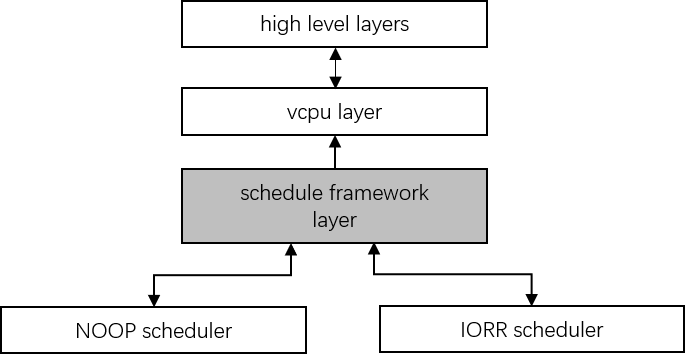
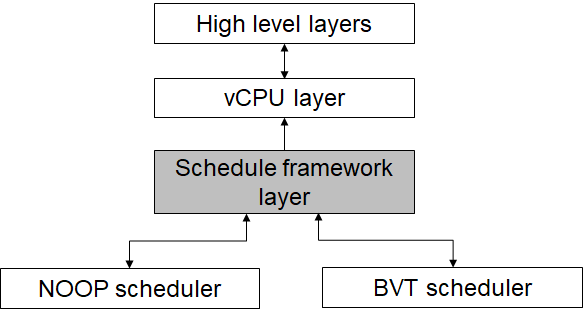
doc: update cpu-sharing doc
change IORR to BVT, update affinity related info.

Changed region(s): [[0.0, 0.2563, 1.0, 0.9968], [0.247, 0.0, 0.7101, 0.2563], [0.3705, 0.2848, 0.5866, 0.3418]]

diff --git a/doc/tutorials/cpu_sharing.rst b/doc/tutorials/cpu_sharing.rst
@@ -6,17 +6,33 @@ ACRN CPU Sharing
 Introduction
 ************
 
-The goal of CPU Sharing is to fully utilize the physical CPU resource to support more virtual machines. Currently, ACRN only supports 1 to 1 mapping mode between virtual CPUs (vCPUs) and physical CPUs (pCPUs). Because of the lack of CPU sharing ability, the number of VMs is limited. To support CPU Sharing, we have introduced a scheduling framework and implemented two simple small scheduling algorithms to satisfy embedded device requirements. Note that, CPU Sharing is not available for VMs with local APIC passthrough (``--lapic_pt`` option).
+The goal of CPU Sharing is to fully utilize the physical CPU resource to
+support more virtual machines. Currently, ACRN only supports 1 to 1
+mapping mode between virtual CPUs (vCPUs) and physical CPUs (pCPUs).
+Because of the lack of CPU sharing ability, the number of VMs is
+limited. To support CPU Sharing, we have introduced a scheduling
+framework and implemented two simple small scheduling algorithms to
+satisfy embedded device requirements. Note that, CPU Sharing is not
+available for VMs with local APIC passthrough (``--lapic_pt`` option).
 
 Scheduling Framework
 ********************
 
-To satisfy the modularization design concept, the scheduling framework layer isolates the vCPU layer and scheduler algorithm. It does not have a vCPU concept so it is only aware of the thread object instance. The thread object state machine is maintained in the framework. The framework abstracts the scheduler algorithm object, so this architecture can easily extend to new scheduler algorithms.
+To satisfy the modularization design concept, the scheduling framework
+layer isolates the vCPU layer and scheduler algorithm. It does not have
+a vCPU concept so it is only aware of the thread object instance. The
+thread object state machine is maintained in the framework. The
+framework abstracts the scheduler algorithm object, so this architecture
+can easily extend to new scheduler algorithms.
 
 .. figure:: images/cpu_sharing_framework.png
    :align: center
 
-The below diagram shows that the vCPU layer invokes APIs provided by scheduling framework for vCPU scheduling. The scheduling framework also provides some APIs for schedulers. The scheduler mainly implements some callbacks in an ``acrn_scheduler`` instance for scheduling framework. Scheduling initialization is invoked in the hardware management layer.
+The below diagram shows that the vCPU layer invokes APIs provided by
+scheduling framework for vCPU scheduling. The scheduling framework also
+provides some APIs for schedulers. The scheduler mainly implements some
+callbacks in an ``acrn_scheduler`` instance for scheduling framework.
+Scheduling initialization is invoked in the hardware management layer.
 
 .. figure:: images/cpu_sharing_api.png
    :align: center
@@ -24,7 +40,9 @@ The below diagram shows that the vCPU layer invokes APIs provided by scheduling 
 vCPU affinity
 *************
 
-Currently, we do not support vCPU migration; the assignment of vCPU mapping to pCPU is statically configured in the VM configuration via a vcpu_affinity array. The item number of the array matches the vCPU number of this VM. Each item has one bit to indicate the assigned pCPU of the corresponding vCPU. Use these rules to configure the vCPU affinity:
+Currently, we do not support vCPU migration; the assignment of vCPU
+mapping to pCPU is statically configured by acrn-dm through
+``--cpu_affinity``. Use these rules to configure the vCPU affinity:
 
 - Only one bit can be set for each affinity item of vCPU.
 - vCPUs in the same VM cannot be assigned to the same pCPU.
@@ -46,26 +64,59 @@ The thread object contains three states: RUNNING, RUNNABLE, and BLOCKED.
 .. figure:: images/cpu_sharing_state.png
    :align: center
 
-After a new vCPU is created, the corresponding thread object is initiated. The vCPU layer invokes a wakeup operation. After wakeup, the state for the new thread object is set to RUNNABLE, and then follows its algorithm to determine whether or not to preempt the current running thread object. If yes, it turns to the RUNNING state. In RUNNING state, the thread object may turn back to the RUNNABLE state when it runs out of its timeslice, or it might yield the pCPU by itself, or be preempted. The thread object under RUNNING state may trigger sleep to transfer to BLOCKED state.
+After a new vCPU is created, the corresponding thread object is
+initiated. The vCPU layer invokes a wakeup operation. After wakeup, the
+state for the new thread object is set to RUNNABLE, and then follows its
+algorithm to determine whether or not to preempt the current running
+thread object. If yes, it turns to the RUNNING state. In RUNNING state,
+the thread object may turn back to the RUNNABLE state when it runs out
+of its timeslice, or it might yield the pCPU by itself, or be preempted.
+The thread object under RUNNING state may trigger sleep to transfer to
+BLOCKED state.
 
 Scheduler
 *********
 
-The below block diagram shows the basic concept for the scheduler. There are two kinds of scheduler in the diagram: NOOP (No-Operation) scheduler and IORR (IO sensitive Round-Robin) scheduler.
+The below block diagram shows the basic concept for the scheduler. There
+are two kinds of schedulers in the diagram: NOOP (No-Operation) scheduler
+and BVT (Borrowed Virtual Time) scheduler.
 
 
 - **No-Operation scheduler**:
 
-  The NOOP (No-operation) scheduler has the same policy as the original 1-1 mapping previously used; every pCPU can run only two thread objects: one is the idle thread, and another is the thread of the assigned vCPU. With this scheduler, vCPU works in Work-Conserving mode, which always try to keep resource busy, and will run once it is ready. Idle thread can run when the vCPU thread is blocked.
+  The NOOP (No-operation) scheduler has the same policy as the original
+  1-1 mapping previously used; every pCPU can run only two thread objects:
+  one is the idle thread, and another is the thread of the assigned vCPU.
+  With this scheduler, vCPU works in Work-Conserving mode, which always
+  try to keep resource busy, and will run once it is ready. Idle thread
+  can run when the vCPU thread is blocked.
 
-- **IO sensitive round-robin scheduler**:
+- **Borrowed Virtual Time scheduler**:
 
-  The IORR (IO sensitive round-robin) scheduler is implemented with the per-pCPU runqueue and the per-pCPU tick timer; it supports more than one vCPU running on a pCPU. It basically schedules thread objects in a round-robin policy and supports preemption by timeslice counting.
+  BVT (Borrowed Virtual time) is a virtual time based scheduling
+  algorithm, it dispatching the runnable thread with the earliest
+  effective virtual time.
 
-  - Every thread object has an initial timeslice (ex: 10ms)
-  - The timeslice is consumed with time and be counted in the context switch and tick handler
-  - If the timeslice is positive or zero, then switch out the current thread object and put it to tail of runqueue. Then, pick the next runnable one from runqueue to run.
-  - Threads with an IO request will preempt current running threads on the same pCPU.
+  TODO: BVT scheduler will be built on top of prioritized scheduling
+  mechanism, i.e. higher priority threads get scheduled first, and same
+  priority tasks are scheduled per BVT.
+
+  - **Virtual time**: The thread with the earliest effective virtual
+    time (EVT) is dispatched first.
+  - **Warp**: a latency-sensitive thread is allowed to warp back in
+    virtual time to make it appear earlier. It borrows virtual time from
+    its future CPU allocation and thus does not disrupt long-term CPU
+    sharing
+  - **MCU**: minimum charging unit, the scheduler account for running time
+    in units of MCU.
+  - **Weighted fair sharing**: each runnable thread receives a share of
+    the processor in proportion to its weight over a scheduling
+    window of some number of MCU.
+  - **C**: context switch allowance.  Real time by which the current
+    thread is allowed to advance beyond another runnable thread with
+    equal claim on the CPU. C is similar to the quantum in conventional
+    timesharing.
+
 
 Scheduler configuration
 ***********************
@@ -75,169 +126,58 @@ Two places in the code decide the usage for the scheduler.
 * The option in Kconfig decides the only scheduler used in runtime.
   ``hypervisor/arch/x86/Kconfig``
 
-  .. literalinclude:: ../../../../hypervisor/arch/x86/Kconfig
-     :name: Kconfig for Scheduler
-     :caption: Kconfig for Scheduler
-     :linenos:
-     :lines: 40-58
-     :emphasize-lines: 3
-     :language: c
+.. code-block:: none
 
-The default scheduler is **SCHED_NOOP**. To use the IORR, change it to **SCHED_IORR** in the **ACRN Scheduler**.
+  config SCHED_BVT
+          bool "BVT scheduler"
+          help
+          BVT (Borrowed Virtual time) is virtual time based scheduling algorithm. It
+          dispatches the runnable thread with the earliest effective virtual time.
+          TODO: BVT scheduler will be built on top of prioritized scheduling mechanism,
+          i.e. higher priority threads get scheduled first, and same priority tasks are
+          scheduled per BVT.
 
-* The affinity for VMs are set in  ``hypervisor/scenarios/<scenario_name>/vm_configurations.h``
+The default scheduler is **SCHED_NOOP**. To use the BVT, change it to
+**SCHED_BVT** in the **ACRN Scheduler**.
 
-  .. literalinclude:: ../../../..//hypervisor/scenarios/industry/vm_configurations.h
-     :name: Affinity for VMs
-     :caption: Affinity for VMs
-     :linenos:
-     :lines: 31-32
-     :language: c
+* The cpu_affinity is configured by acrn-dm command.
 
-* vCPU number corresponding to affinity is set in ``hypervisor/scenarios/<scenario_name>/vm_configurations.c`` by the **vcpu_num**
+  For example, assign physical CPUs (pCPUs) 1 and 3 to this VM using::
+
+    --cpu_affinity 1,3
+
 
 Example
 *******
 
-To support below configuration in industry scenario:
+Use the following settings to support this configuration in the industry scenario:
 
-+-----------------+-------+-------+--------+
-|pCPU0            |pCPU1  |pCPU2  |pCPU3   |
-+=================+=======+=======+========+
-|Service VM WaaG  |RT Linux       |vxWorks |
-+-----------------+---------------+--------+
++---------+-------+-------+-------+
+|pCPU0    |pCPU1  |pCPU2  |pCPU3  |
++=========+=======+=======+=======+
+|SOS + WaaG       |RT Linux       |
++-----------------+---------------+
 
-Change the following three files:
+- offline pcpu2-3 in SOS.
 
-1. ``hypervisor/arch/x86/Kconfig``
+- launch guests.
 
-.. code-block:: none
+  - launch WaaG with "--cpu_affinity=0,1"
+  - launch RT with "--cpu_affinity=2,3"
 
-   choice
-       prompt "ACRN Scheduler"
-       -default SCHED_NOOP
-       +default SCHED_IORR
-       help
-          Select the CPU scheduler to be used by the hypervisor
 
-2. ``hypervisor/scenarios/industry/vm_configurations.h``
+After you start all VMs, check the vCPU affinities from the Hypervisor
+console with the ``vcpu_list`` command:
 
-.. code-block:: none
+.. code-block:: console
 
-  #define CONFIG_MAX_VM_NUM               (4U)
+   ACRN:\>vcpu_list
 
-  #define DM_OWNED_GUEST_FLAG_MASK        (GUEST_FLAG_SECURE_WORLD_ENABLED | GUEST_FLAG_LAPIC_PASSTHROUGH | \
-                                                  GUEST_FLAG_RT | GUEST_FLAG_IO_COMPLETION_POLLING)
-
-  #define SOS_VM_BOOTARGS                 SOS_ROOTFS      \
-                                          "rw rootwait "  \
-                                          "console=tty0 " \
-                                          SOS_CONSOLE     \
-                                          "consoleblank=0 "       \
-                                          "no_timer_check "       \
-                                          "quiet loglevel=3 "     \
-                                          "i915.nuclear_pageflip=1 " \
-                                          "i915.avail_planes_per_pipe=0x01010F "  \
-                                          "i915.domain_plane_owners=0x011111110000 " \
-                                          "i915.enable_gvt=1 "    \
-                                          SOS_BOOTARGS_DIFF
-
-  #define VM1_CONFIG_CPU_AFFINITY        {AFFINITY_CPU(0U)}
-  #define VM2_CONFIG_CPU_AFFINITY        {AFFINITY_CPU(1U), AFFINITY_CPU(2U)}
-  #define VM3_CONFIG_CPU_AFFINITY        {AFFINITY_CPU(3U)}
-
-3. ``hypervisor/scenarios/industry/vm_configurations.c``
-
-.. code-block:: none
-
- struct acrn_vm_config vm_configs[CONFIG_MAX_VM_NUM] = {
-         {
-                 CONFIG_SOS_VM,
-                 .name = "ACRN SOS VM",
-                 .guest_flags = 0UL,
-                 .clos = 0U,
-                 .memory = {
-                         .start_hpa = 0UL,
-                         .size = CONFIG_SOS_RAM_SIZE,
-                 },
-                 .os_config = {
-                         .name = "ACRN Service OS",
-                         .kernel_type = KERNEL_BZIMAGE,
-                         .kernel_mod_tag = "Linux_bzImage",
-                         .bootargs = SOS_VM_BOOTARGS
-                 },
-                 .vuart[0] = {
-                         .type = VUART_LEGACY_PIO,
-                         .addr.port_base = SOS_COM1_BASE,
-                         .irq = SOS_COM1_IRQ,
-                 },
-                 .vuart[1] = {
-                         .type = VUART_LEGACY_PIO,
-                         .addr.port_base = SOS_COM2_BASE,
-                         .irq = SOS_COM2_IRQ,
-                         .t_vuart.vm_id = 2U,
-                         .t_vuart.vuart_id = 1U,
-                 },
-                 .pci_dev_num = SOS_EMULATED_PCI_DEV_NUM,
-                 .pci_devs = sos_pci_devs,
-         },
-         {
-                 CONFIG_POST_STD_VM(1),
-                 .cpu_affinity_bitmap = VM1_CONFIG_CPU_AFFINITY,
-                 .vuart[0] = {
-                         .type = VUART_LEGACY_PIO,
-                         .addr.port_base = COM1_BASE,
-                         .irq = COM1_IRQ,
-                 },
-                 .vuart[1] = {
-                         .type = VUART_LEGACY_PIO,
-                         .addr.port_base = INVALID_COM_BASE,
-                 }
-
-         },
-         {
-                 CONFIG_POST_RT_VM(1),
-                 .cpu_affinity_bitmap = VM2_CONFIG_CPU_AFFINITY,
-                 .vuart[0] = {
-                         .type = VUART_LEGACY_PIO,
-                         .addr.port_base = COM1_BASE,
-                         .irq = COM1_IRQ,
-                 },
-                 .vuart[1] = {
-                         .type = VUART_LEGACY_PIO,
-                         .addr.port_base = COM2_BASE,
-                         .irq = COM2_IRQ,
-                         .t_vuart.vm_id = 0U,
-                         .t_vuart.vuart_id = 1U,
-                 },
-         },
-         {
-                 CONFIG_POST_STD_VM(2),
-                 .cpu_affinity_bitmap = VM3_CONFIG_CPU_AFFINITY,
-                 .vuart[0] = {
-                         .type = VUART_LEGACY_PIO,
-                         .addr.port_base = COM1_BASE,
-                         .irq = COM1_IRQ,
-                 },
-                 .vuart[1] = {
-                         .type = VUART_LEGACY_PIO,
-                         .addr.port_base = INVALID_COM_BASE,
-                 }
-
-         },
-
- };
-
-After you start all VMs, check the vCPU affinities from the Hypervisor console:
-
-.. code-block:: none
-
-  ACRN:\>vcpu_list
-
-  VM ID    PCPU ID    VCPU ID    VCPU ROLE    VCPU STATE
-  =====    =======    =======    =========    ==========
-    0         0          0       PRIMARY      Running
-    1         0          0       PRIMARY      Running
-    2         1          0       PRIMARY      Running
-    2         2          1       SECONDARY    Running
-    3         3          0       PRIMARY      Running
+   VM ID    PCPU ID    VCPU ID    VCPU ROLE    VCPU STATE    THREAD STATE
+   =====    =======    =======    =========    ==========    ==========
+     0         0          0       PRIMARY      Running          BLOCKED
+     0         1          0       SECONDARY    Running          BLOCKED
+     1         0          0       PRIMARY      Running          RUNNING
+     1         1          0       SECONDARY    Running          RUNNING
+     2         2          0       PRIMARY      Running          RUNNING
+     2         3          1       SECONDARY    Running          RUNNING
